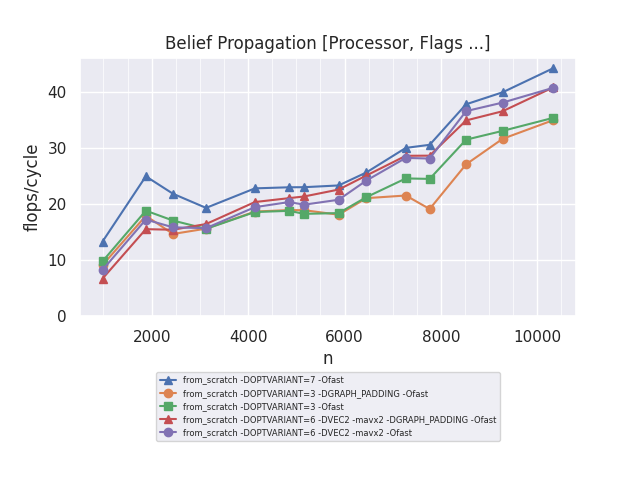
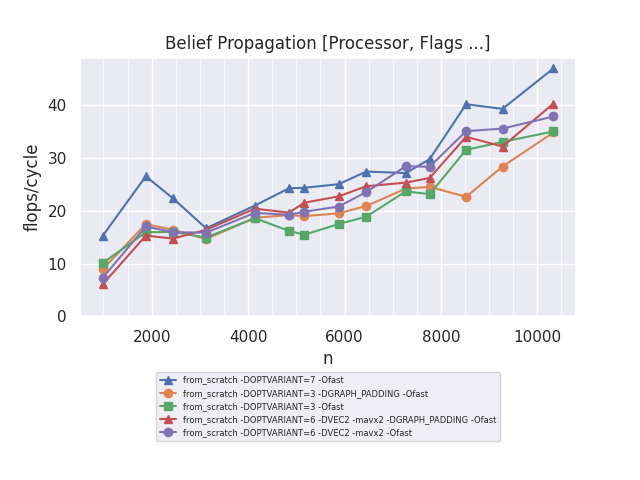
size_t can be replaced by uint32

diff --git a/from_scratch/src/factor.h b/from_scratch/src/factor.h
@@ -13,6 +13,7 @@
  * from the list of ratings. */
 
 #ifdef COMPACT_MESSAGE
+typedef u_int32_t idx_t;
 typedef float_t msg_t;
 typedef float_t potential_t;
 typedef float_t statevector_t;
@@ -22,6 +23,7 @@ typedef struct {
 	float D;
 } statevector_t;
 
+typedef size_t idx_t;
 typedef statevector_t msg_t;
 typedef statevector_t potential_t;
 
@@ -38,18 +40,18 @@ void normalise_msg(msg_t *m) {
 #endif
 
 typedef struct {
-	size_t n; // Total number of vertices
-	size_t m; // Total number of half-edges (i.e., 2|E|)
-	size_t *off; // size = n; off[v] = the offset where the v-th vertex begins
+	idx_t n; // Total number of vertices
+	idx_t m; // Total number of half-edges (i.e., 2|E|)
+	idx_t *off; // size = n; off[v] = the offset where the v-th vertex begins
 	msg_t *in; // size = m; buffer for incoming messages, the ones for vertex v are at in[off[v]] … in[off[v + 1] - 1]
 	msg_t *in_old; // size = m; the same, but for the previous iteration, these two get swapped after every iteration
-	size_t *out; // size = m; out[off[v]] … out[off[v + 1] - 1] contain the indices in in where the messages from v should be delivered
+	idx_t *out; // size = m; out[off[v]] … out[off[v + 1] - 1] contain the indices in in where the messages from v should be delivered
 	potential_t *node_pot; // size = n; the potential for each node
 	struct translator tr; // translates user and movie ids into graph vertex ids
 	statevector_t *belief; // the final belief of each node
 	// debug info:
 	rating_t *E; // the original input sequence of edges
-	size_t *eix; // the index of the edge in the input sequence
+	idx_t *eix; // the index of the edge in the input sequence
 	int target_uid; // the id of the target vertex
 } graph_t;
 
@@ -78,7 +80,7 @@ void graph_from_edge_list(rating_t *E, int target_uid, graph_t *_G)
 	graph_t G = {0};
 	translator_init(&G.tr, E);
 	G.n = G.tr.max_out_id;
-	G.off = (size_t *) aligned_calloc(G.n + 1, sizeof *G.off);
+	G.off = (idx_t *) aligned_calloc(G.n + 1, sizeof *G.off);
 	G.belief = (statevector_t *) aligned_calloc(G.n, sizeof *G.belief);
 
 	// make all ``disabled'' edges have rating = -1
@@ -110,8 +112,8 @@ void graph_from_edge_list(rating_t *E, int target_uid, graph_t *_G)
 
 	G.m = G.off[G.n];
 
-	G.out = (size_t *) aligned_malloc(G.m * sizeof *G.out);
-	G.eix = (size_t *) aligned_malloc(G.m * sizeof *G.eix);
+	G.out = (idx_t *) aligned_malloc(G.m * sizeof *G.out);
+	G.eix = (idx_t *) aligned_malloc(G.m * sizeof *G.eix);
 	G.in = (msg_t *) aligned_malloc((G.m + GRAPH_IN_ALIGN_NMEMB) * sizeof *G.in);
 	G.in_old = (msg_t *) aligned_malloc((G.m + GRAPH_IN_ALIGN_NMEMB) * sizeof *G.in_old);
 	// introduce some space before, to allow writing at position -1
@@ -137,8 +139,8 @@ void graph_from_edge_list(rating_t *E, int target_uid, graph_t *_G)
 		int u = translator_user_to_id(&G.tr, p->user);
 		int v = translator_movie_to_id(&G.tr, p->movie);
 
-		size_t off_v = G.off[v];
-		size_t off_u = G.off[u];
+		idx_t off_v = G.off[v];
+		idx_t off_u = G.off[u];
 		// construct the pointer to the ``other end'' of this edge
 		G.out[off_u] = off_v;
 		G.out[off_v] = off_u;
@@ -220,10 +222,19 @@ void dump_beliefs(graph_t *G) {
 }
 
 void dump_graph(graph_t *G) {
+#ifdef COMPACT_MESSAGE
+	printf("Graph, n = %d (%zd user IDs + %zd movie IDs), m = %d\n", G->n, G->tr.u_hi - G->tr.u_lo, G->tr.m_hi - G->tr.m_lo, G->m);
+#else
 	printf("Graph, n = %zd (%zd user IDs + %zd movie IDs), m = %zd\n", G->n, G->tr.u_hi - G->tr.u_lo, G->tr.m_hi - G->tr.m_lo, G->m);
+#endif
 	printf("offsets: ");
-	for (int i = 0; i <= G->n; i++)
+	for (int i = 0; i <= G->n; i++){
+#ifdef COMPACT_MESSAGE
+		printf("%d ", G->off[i]);
+#else
 		printf("%zd ", G->off[i]);
+#endif
+	}
 	printf("\n");
 	printf("edges:\n");
 	for (int v = 0; v < G->n; v++) {
@@ -231,11 +242,19 @@ void dump_graph(graph_t *G) {
 		for (int i = G->off[v]; i < G->off[v + 1]; i++) {
 			if (G->eix[i] == -1)
 				break;
-			size_t e = G->eix[i];
+			idx_t e = G->eix[i];
 #ifdef VERBOSE_DUMP
+#ifdef COMPACT_MESSAGE
+			printf("%d (u%d->m%d, r=%.0f, out=%d) ", e, G->E[e].user, G->E[e].movie, G->E[e].rating, G->out[i]);
+#else
 			printf("%zd (u%d->m%d, r=%.0f, out=%zd) ", e, G->E[e].user, G->E[e].movie, G->E[e].rating, G->out[i]);
+#endif
+#else
+#ifdef COMPACT_MESSAGE
+			printf("%d (u%d->m%d, r=%.0f) ", e, G->E[e].user, G->E[e].movie, G->E[e].rating);
 #else
 			printf("%zd (u%d->m%d, r=%.0f) ", e, G->E[e].user, G->E[e].movie, G->E[e].rating);
+#endif
 #endif
 		}
 		printf("]\n");

diff --git a/from_scratch/src/belief3_vector.h b/from_scratch/src/belief3_vector.h
@@ -33,11 +33,6 @@ void propagate(graph_t *G) {
 		float_t glob10 = PROP_10 * pot_i1 * prod_tot1;
 		float_t glob11 = PROP_11 * pot_i1 * prod_tot1;
 
-        float_t glob[4];
-        float_t PROP[4] = {PROP_00, PROP_01, PROP_10, PROP_11};
-        float_t pot[4] = {pot_i0, pot_i0, pot_i1, pot_i1};
-        float_t prod_tot[4] = {prod_tot0, prod_tot0, prod_tot1, prod_tot1};
-
 		//unrolled just like belief_simpleUnroll.h
         size_t end = off[i + 1];
 #ifdef VEC2
@@ -48,12 +43,13 @@ void propagate(graph_t *G) {
 		__m256 eps = _mm256_set1_ps(EPS);
 		__m256 half = _mm256_set1_ps(0.5);
 
+#ifdef GRAPH_PADDING
 		// TODO: Are these correct?
 		__m256i msg1_mask = _mm256_set_epi64x(0x0000000000000000, 0x0000000000000000, 0x0000000000000000, 0xFFFFFFFFFFFFFFFF);
 		__m256i msg2_mask = _mm256_set_epi64x(0x0000000000000000, 0x0000000000000000, 0xFFFFFFFFFFFFFFFF, 0x0000000000000000);
 		__m256i msg3_mask = _mm256_set_epi64x(0x0000000000000000, 0xFFFFFFFFFFFFFFFF, 0x0000000000000000, 0x0000000000000000);
 		__m256i msg4_mask = _mm256_set_epi64x(0xFFFFFFFFFFFFFFFF, 0x0000000000000000, 0x0000000000000000, 0x0000000000000000);
-
+#endif
 
 		// RH: I think the intermediate loop bound should be end & ~3 (as opposed to end - 3), otherwise, we may count something twice in the leftover loop.
         for (int j = off[i]; j < end - 3; j+=4) {
